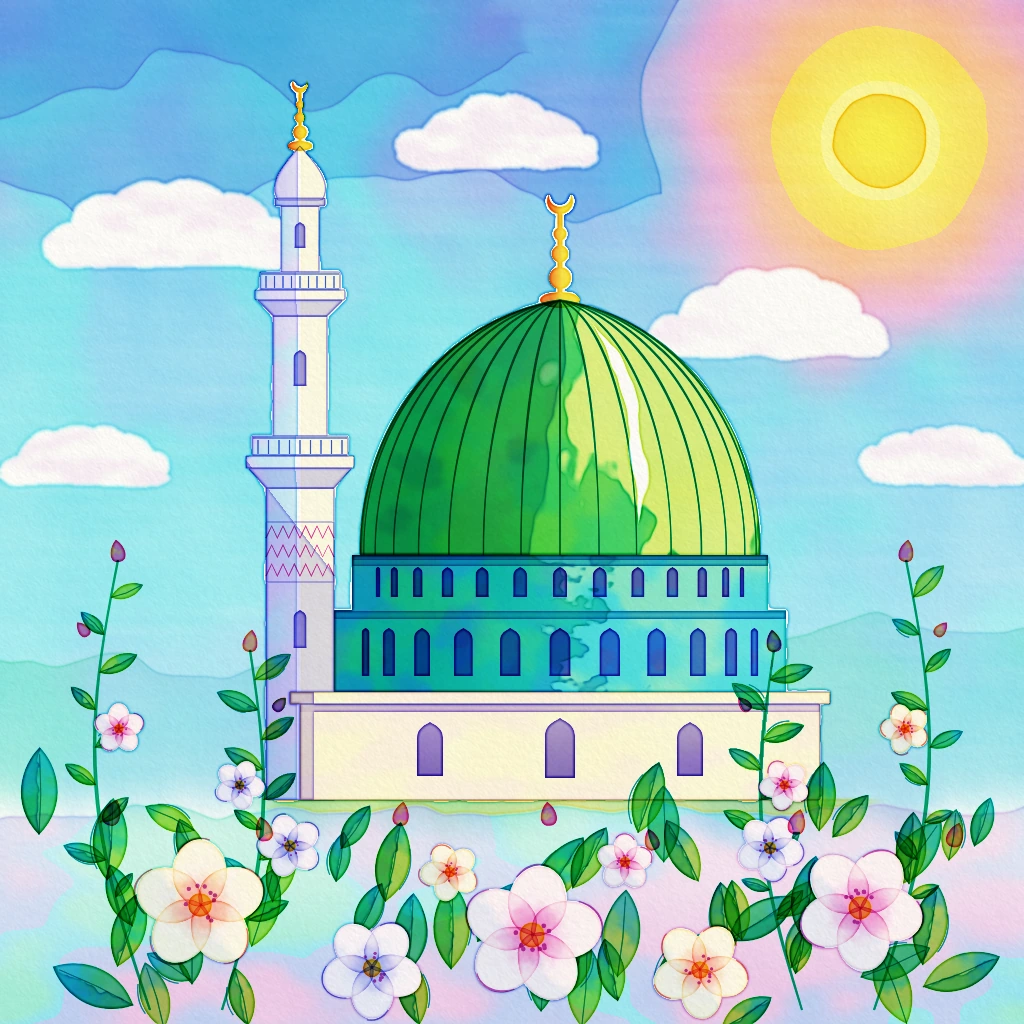
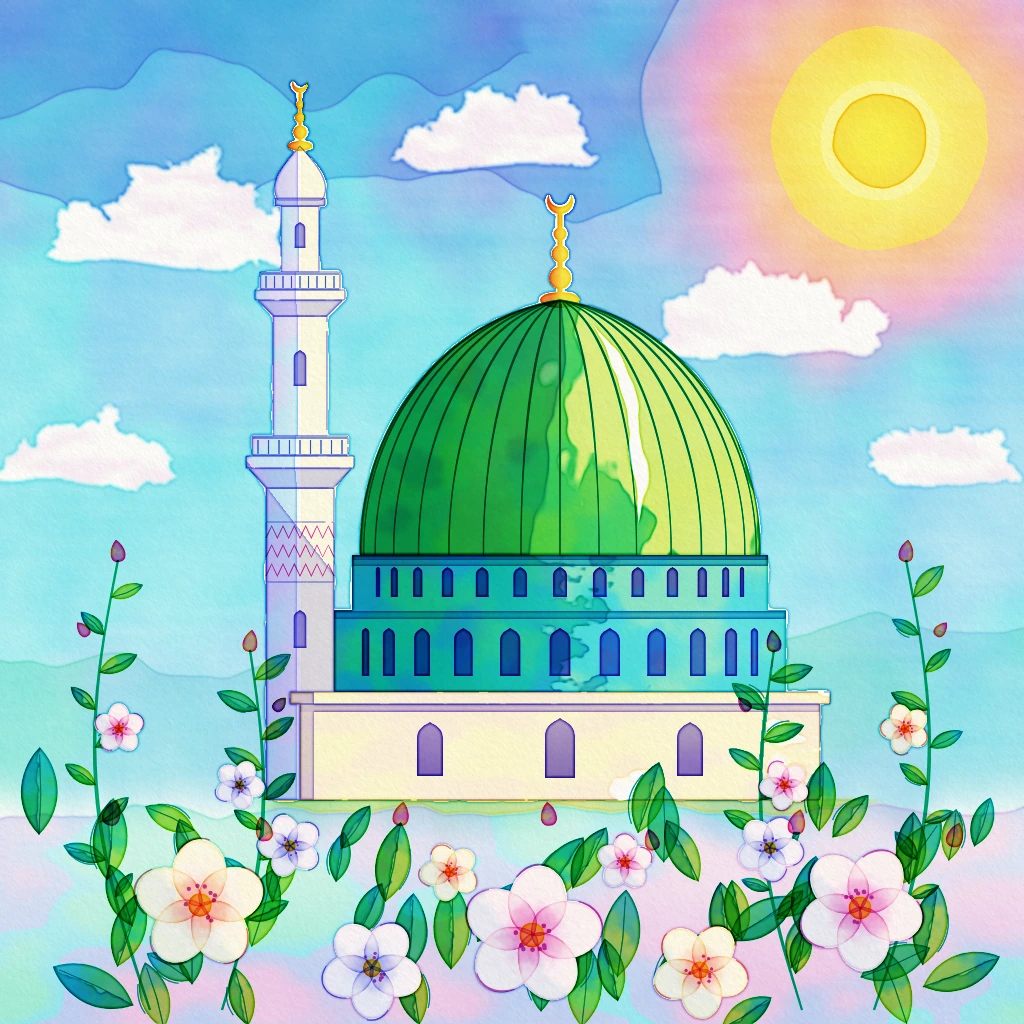
Atölye: üçüncü tur gözden geçirmelerinin ara kaydı
Claude-Session: https://claude.ai/code/session_01Q8CfoBGMPN7gfLWQYpMs1J

diff --git a/atolye/stiller/S-085-renkli-murekkep/ornek.html b/atolye/stiller/S-085-renkli-murekkep/ornek.html
@@ -313,6 +313,19 @@
     murekkep(kutu, A, { pig: o.pig, yog: o.yog, kenar: 0.5, kenarR: 1, dalga: 0.1, tohum: o.tohum });
   }
 
+  // kalem kaldırılarak çekilmiş hat: uzun yollar rastgele boylarda parçalara bölünür, aralarda küçük boşluk
+  function kopuk(listeler, tohum) {
+    const r = SAHNE.rng(tohum), out = [];
+    for (const pts of listeler) {
+      let i = 0;
+      while (i < pts.length - 1) {
+        const n = 8 + Math.floor(r() * 30), parca = pts.slice(i, Math.min(pts.length, i + n + 1));
+        if (parca.length > 1) out.push(parca);
+        i += n + (r() < 0.6 ? 1 + Math.floor(r() * 3) : 0);
+      }
+    }
+    return out;
+  }
   const CR = kapsamCiz(TAM, (c) => {
     for (const ci of B.cicekler) {
       for (const e of SAHNE.tacYapraklari(ci)) { c.beginPath(); c.ellipse(e.cx, e.cy, e.rx * 1.04, e.ry * 1.1, e.aci, 0, Math.PI * 2); c.fill(); }
@@ -328,15 +341,23 @@
   const BUL = (() => {
     const r = SAHNE.rng(55);
     const M = kapsamCiz(TAM, (c) => {
+      // düzensiz loblu kümeler: her bulut farklı; altı hafif eğik ve dalgalı
       for (const [bx, by, bs] of [[170, 245, 1.05], [500, 150, 0.85], [770, 335, 1.0], [945, 468, 0.72], [88, 470, 0.72]]) {
-        const adet = 6;
+        const adet = 4 + Math.floor(r() * 3);
+        hobbsCiz(c, damla(bx + (r() - 0.5) * 16 * bs, by + 8 * bs, (104 + r() * 24) * bs, 19 * bs, (r() - 0.5) * 0.06, 11, r), 12, 0.1, r, 0.3);
         for (let k = 0; k < adet; k++) {
-          const t = k / (adet - 1), ox = (t - 0.5) * 190 * bs, h = Math.sin(Math.PI * t);
-          const rr = (20 + 24 * h + r() * 8) * bs;
-          c.beginPath(); c.arc(bx + ox, by - h * 18 * bs + (r() - 0.5) * 6, rr, 0, Math.PI * 2); c.fill();
+          const t = (k + 0.25 + r() * 0.5) / adet, ox = (t - 0.5) * (175 + r() * 40) * bs, h = Math.pow(Math.sin(Math.PI * t), 0.8);
+          const rr = (18 + 28 * h * (0.65 + r() * 0.6)) * bs;
+          hobbsCiz(c, damla(bx + ox, by - h * (12 + r() * 14) * bs - 4 * bs, rr * (1 + r() * 0.2), rr * (0.85 + r() * 0.2), r() * 3, 9, r), 10, 0.11, r, 0.45);
         }
-        c.beginPath(); c.ellipse(bx, by + 10 * bs, 118 * bs, 20 * bs, 0, 0, Math.PI * 2); c.fill();
-        c.clearRect(bx - 200 * bs, by + 22 * bs, 400 * bs, 80 * bs);
+      }
+      const vv = c.getImageData(0, 0, W, W), dd = vv.data;
+      for (let i = 0; i < N; i++) dd[i * 4 + 3] = Math.round(sstep(0.28, 0.5, dd[i * 4 + 3] / 255) * 255);
+      c.putImageData(vv, 0, 0);
+      for (const [bx, by, bs] of [[170, 245, 1.05], [500, 150, 0.85], [770, 335, 1.0], [945, 468, 0.72], [88, 470, 0.72]]) {
+        c.save(); c.globalCompositeOperation = 'destination-out'; c.beginPath(); c.moveTo(bx - 220 * bs, by + 20 * bs);
+        for (let x = -220; x <= 220; x += 20) c.lineTo(bx + x * bs, by + (20 + 5 * Math.sin(x / 37 + bx) + x * 0.025) * bs);
+        c.lineTo(bx + 220 * bs, by + 90 * bs); c.lineTo(bx - 220 * bs, by + 90 * bs); c.closePath(); c.fill(); c.restore();
       }
     });
     const o = new Float32Array(N), nW1 = gurultu(57), nW2 = gurultu(58);
@@ -360,9 +381,9 @@
       },
       yog: (x, y) => {
         const d = gd(x, y);
-        return (0.1 + 0.2 * Math.pow(clamp(1 - y / 820, 0, 1), 0.7)) * (d < 60 ? 0.6 : 1) * (0.85 + 0.3 * fbm(nD, x / 120, y / 120, 2)) * (0.9 + 0.13 * nB(x / 130 - y / 700, y / 10) + 0.07 * nA(x / 60, y / 5));
+        return (0.1 + 0.2 * Math.pow(clamp(1 - y / 820, 0, 1), 0.7)) * (d < 60 ? 0.6 : 1) * (0.8 + 0.4 * fbm(nD, x / 90, y / 110, 3)) * (0.9 + 0.13 * nB(x / 130 - y / 700, y / 10) + 0.07 * nA(x / 60, y / 5));
       },
-      tohum: 1,
+      dalga: 0.26, dalgaOlcek: 50, tohum: 1,
     });
   }
   // 2. ve 3. kat: kuruduktan sonra üst gökte keskin kenarlı, üst üste binen mürekkep havuzları (bulutların etrafından)
@@ -446,7 +467,7 @@
   // ============================================================ KAİDE ve MİNARE: beyaz taş, leylak gölgeler, renkli hatlar
   const kKai = [284, 688, 836, 806];
   const kaiM = KAIDE_M.map((v, i) => v * (1 - CR[i]));
-  murekkep(kKai, kapsamAlan(kKai, (x, y) => kaiM[y * W + x]), { pig: (x, y) => lerpK(karis(P.lim, 0.6, P.tur3, 0.25), karis(P.gul, 0.4, P.tur3, 0.3, P.lim, 0.3), sstep(0.4, 0.6, fbm(nC, x / 80, y / 40, 2))), yog: 0.07, tohum: 31 });
+  murekkep(kKai, kapsamAlan(kKai, (x, y) => kaiM[y * W + x] * sstep(0.3, 0.34, fbm(nE, x / 70, y / 40, 3) + 0.25 * sstep(700, 330, x))), { pig: (x, y) => lerpK(karis(P.lim, 0.6, P.tur3, 0.25), karis(P.gul, 0.4, P.tur3, 0.3, P.lim, 0.3), sstep(0.4, 0.6, fbm(nC, x / 80, y / 40, 2))), yog: 0.08, kenar: 1.8, tohum: 31 });
   murekkep(kKai, kapsamAlan(kKai, (x, y) => kaiM[y * W + x] * ((y > 703 && y < 712) || x < 314 ? 1 : 0)), { pig: karis(P.mor, 0.6, P.kob, 0.3, P.gul, 0.2), yog: (x, y) => (y < 712 ? 0.22 : 0.15) * (0.5 + 0.5 * sstep(830, 420, x)), tohum: 32 });
   {
     const A = kapsamCiz(kKai, (c) => { for (const p of SAHNE.kaide.pencereler) c.fill(new Path2D(SAHNE.kemerYolu(p.x, p.y, p.w, p.h))); });
@@ -468,8 +489,8 @@
     hat(kMin, SAHNE.zikzakCizgileri(), { gen: 2.2, pig: karis(P.mac, 0.9, P.mor, 0.15), yog: 0.55, tohum: 45 });
     const A = kapsamCiz(kMin, (c) => { for (const p of SAHNE.minarePencereleri) c.fill(new Path2D(SAHNE.kemerYolu(p.x, p.y, p.w, p.h))); });
     murekkep(kMin, A, { pig: karis(P.mor, 0.7, P.kob, 0.4), yog: 0.4, tohum: 46 });
-    hat(kMin, SAHNE.yollar().minare.flatMap((d) => yolNoktalari(d, 3)), { gen: 1.1, pig: karis(P.mor, 0.6, P.kob, 0.4), yog: 0.35, tohum: 47, carpM: CRT.map((v, i) => v * (1 - KAIDE_M[i]) * (1 - KASNAK_M[i])) });
-    hat(kKai, yolNoktalari(SAHNE.yollar().kornis, 3).concat(yolNoktalari(SAHNE.yollar().kaide, 3)), { gen: 1.1, pig: karis(P.mor, 0.6, P.kob, 0.4), yog: 0.35, tohum: 48, carpM: CRT });
+    hat(kMin, kopuk(SAHNE.yollar().minare.flatMap((d) => yolNoktalari(d, 3)), 471), { gen: 1.1, pig: karis(P.mor, 0.6, P.kob, 0.4), yog: 0.35, tohum: 47, carpM: CRT.map((v, i) => v * (1 - KAIDE_M[i]) * (1 - KASNAK_M[i])) });
+    hat(kKai, kopuk(yolNoktalari(SAHNE.yollar().kornis, 3).concat(yolNoktalari(SAHNE.yollar().kaide, 3)), 481), { gen: 1.1, pig: karis(P.mor, 0.6, P.kob, 0.4), yog: 0.35, tohum: 48, carpM: CRT });
   }
   // alemler: parlak turuncu-sarı mürekkep
   for (const [cx, kutu] of [[560, [530, 176, 590, 314]], [300, [280, 72, 320, 154]]]) {

diff --git a/atolye/stiller/S-116-boyali-ahsap-rolyef/ornek.html b/atolye/stiller/S-116-boyali-ahsap-rolyef/ornek.html
@@ -124,7 +124,7 @@
 
   // ------------------------------------------------------------ renkler (halk boyası)
   const C = {
-    gok: '#86D0F4', gokAlt: '#D2F1FA', bulut: '#FFFFFF', bulutGolge: '#D9EEF6',
+    gok: '#72C6F6', gokAlt: '#CDEFFC', bulut: '#FFFFFF', bulutGolge: '#D9EEF6',
     gunes: '#FFD43B', gunesHalka: '#FF9F2E', isin: '#FFC233', isin2: '#FF8A3D',
     zemin: '#F5D188',
     kubbe: '#25A04C', kubbe2: '#36B85E', kasnak: '#2A9A4A', kasnakAcik: '#45B865',
@@ -697,8 +697,11 @@
       const altinMi = Math.abs(r - altinR[0]) + Math.abs(g - altinR[1]) + Math.abs(b - altinR[2]) < 40;
       // ahşap lifi boyanın altından: ince sıcak çizgiler; fırça izi: boya kalınlığı dalgası
       const firca = (vnoise(x * 0.03, y * 0.55, 21) - 0.5) * 0.035;
-      const lk = 1 - 0.075 * lif - 0.03 * lif2 - 0.05 * Math.min(1, gozenek) + firca;
-      r *= lk; g *= lk * 0.99; b *= lk * 0.96;
+      // gök boyası daha kalın ve parlak sürülmüş: lif daha hafif seçilir, sıcak ahşap tonu bulaştırmaz
+      const gokMu = b > 225 && r < 215 && g > 185;
+      const lg = gokMu ? 0.55 : 1;
+      const lk = 1 - (0.075 * lif + 0.03 * lif2 + 0.05 * Math.min(1, gozenek)) * lg + firca * lg;
+      r *= lk; g *= lk * (gokMu ? 1 : 0.99); b *= lk * (gokMu ? 1 : 0.96);
       let spec;
       if (altinMi) {
         isik = (0.32 + 0.9 * NL / L[2]) * (1 - 0.3 * sh) * ao;
